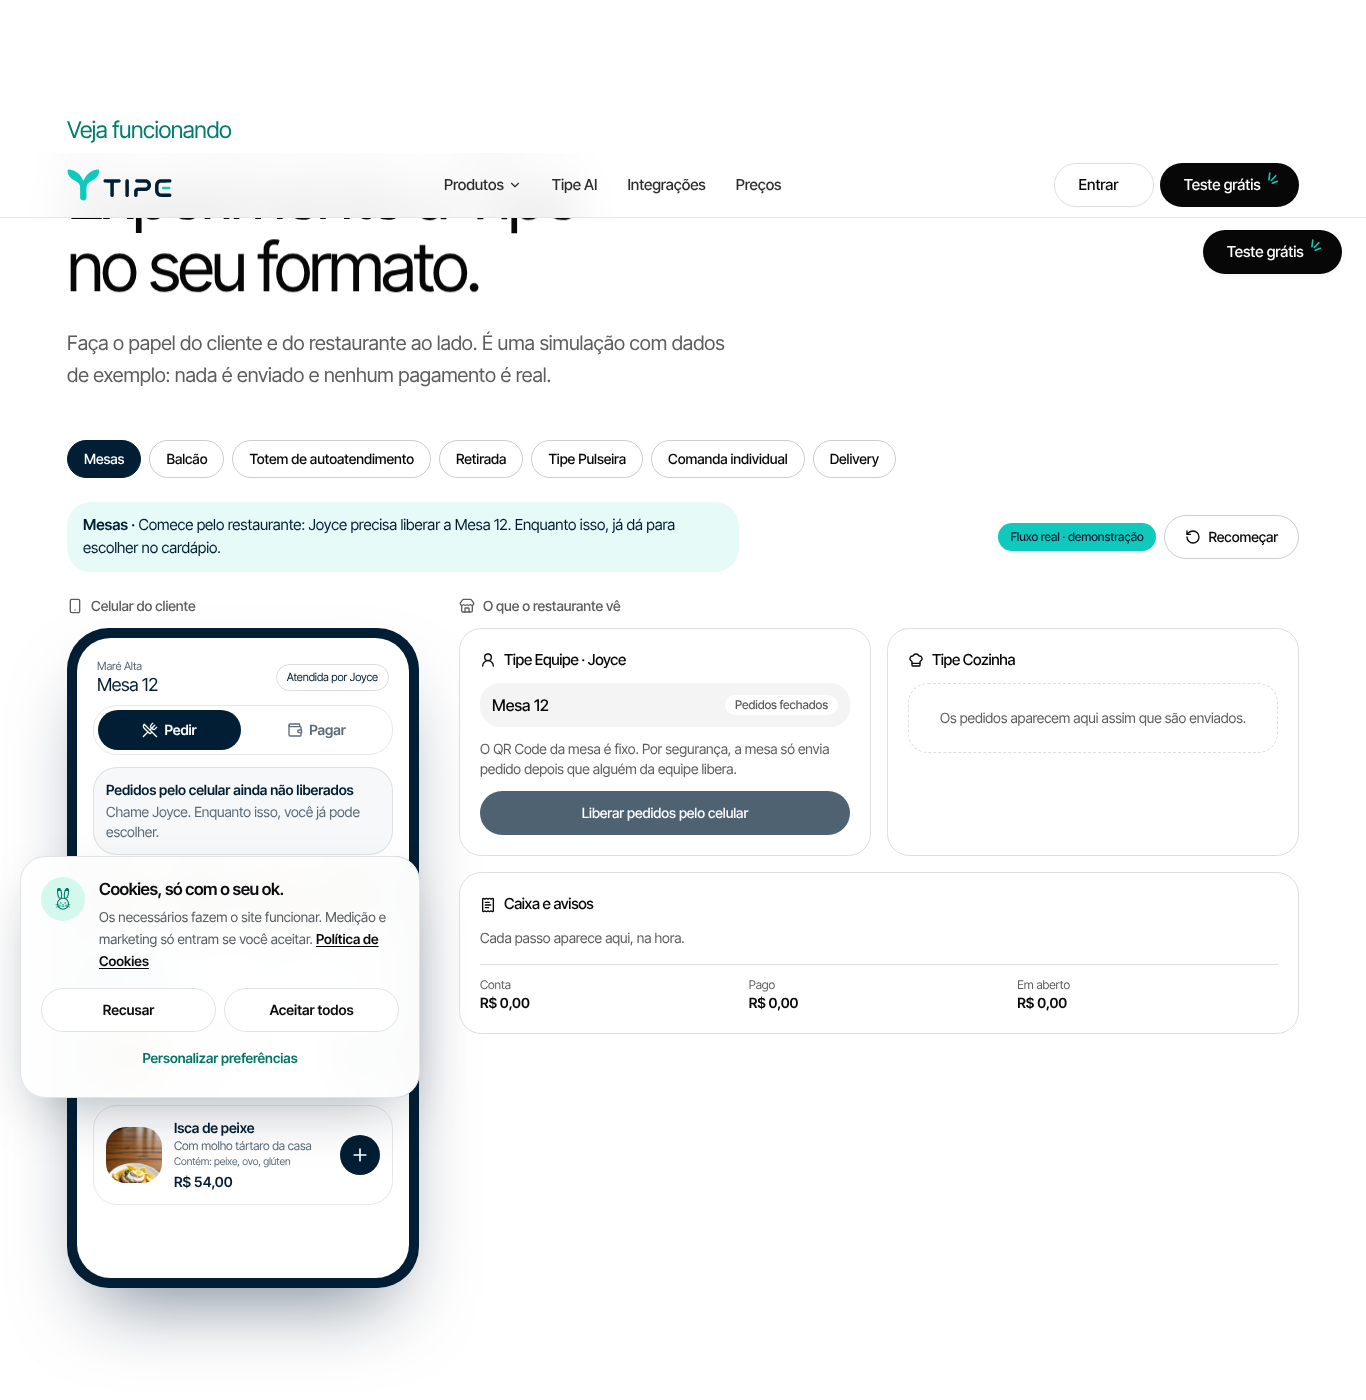
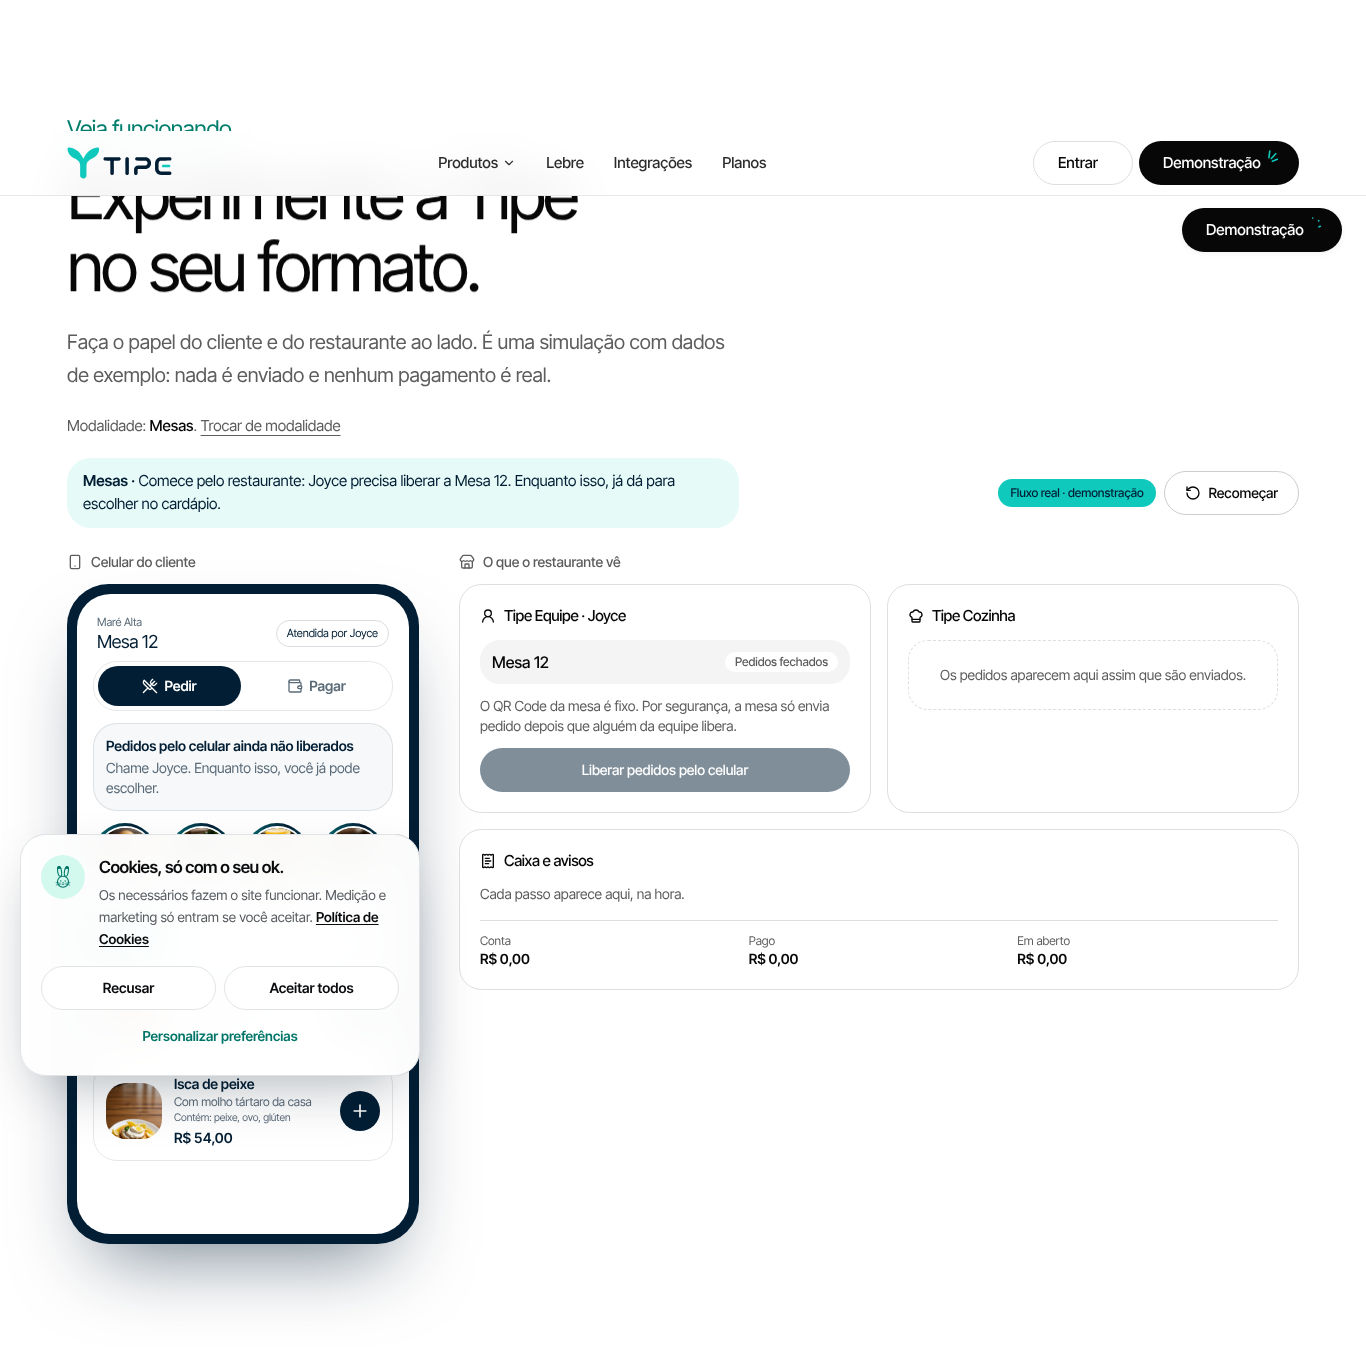
Order: seletor mais enxuto (3 benefícios, passo a passo recolhido) e simulador sem abas duplicadas
Claude-Session: https://claude.ai/code/session_014qa42xThX5JJ1RgbZyioSa

diff --git a/src/components/tipe/site/order/EscolhaAtendimento.tsx b/src/components/tipe/site/order/EscolhaAtendimento.tsx
@@ -9,6 +9,8 @@
 import { useId, useRef, type KeyboardEvent } from "react";
 import {
   ArrowRight,
+  Check,
+  ChevronDown,
   Bike,
   ClipboardList,
   Nfc,
@@ -251,41 +253,37 @@ export function EscolhaAtendimento({
               <span className="flex h-11 w-11 items-center justify-center rounded-2xl bg-[#e6faf8] text-[#03665f]">
                 <Icone className="h-5 w-5" aria-hidden />
               </span>
-              <h3 className="font-display text-[1.9rem] leading-none tracking-[-0.035em] sm:text-[2.3rem]">{def.nome}</h3>
+              <h3 className="font-display text-[1.7rem] leading-none tracking-[-0.035em] sm:text-[2rem]">{def.nome}</h3>
               <SeloDisponibilidade d={def.disponibilidade} className="text-[#021E34]" />
             </div>
             <p className="mt-4 text-[1.1rem] leading-relaxed text-muted-foreground sm:text-xl">{def.promessa}</p>
             <p className="mt-2 text-[0.9rem] leading-relaxed text-muted-foreground/90">{TEXTO_DISPONIBILIDADE[def.disponibilidade].longo}</p>
 
-            <h4 className="mt-7 font-display text-[1.05rem] tracking-[-0.02em] text-brand-strong">Como funciona</h4>
-            <ol className="mt-3 space-y-2">
-              {def.fluxo.map((p, i) => (
-                <li key={i} className="flex gap-3 text-[0.95rem] leading-snug">
-                  <span className="mt-0.5 flex h-5 w-5 shrink-0 items-center justify-center rounded-full bg-[#021E34] text-[0.65rem] font-semibold text-white tabular-nums">
-                    {i + 1}
-                  </span>
+            <ul className="mt-6 space-y-2.5">
+              {def.beneficios.slice(0, 3).map((b) => (
+                <li key={b.t} className="flex gap-3 text-[0.98rem] leading-snug">
+                  <Check className="mt-0.5 h-5 w-5 shrink-0 text-[#0FC9BD]" strokeWidth={2.5} aria-hidden />
                   <span>
-                    <span className="mr-1.5 rounded-md bg-[#e6faf8] px-1.5 py-0.5 text-[0.7rem] font-medium uppercase tracking-wide text-[#03665f]">
-                      {QUEM[p.quem]}
-                    </span>
-                    {p.o_que}
+                    <span className="font-medium">{b.t}.</span> <span className="text-muted-foreground">{b.d}</span>
                   </span>
-                </li>
-              ))}
-            </ol>
-
-            <ul className="mt-7 grid gap-3 sm:grid-cols-2">
-              {def.beneficios.map((b) => (
-                <li key={b.t} className="rounded-2xl bg-background-muted p-4 ring-1 ring-border">
-                  <p className="font-medium leading-snug">{b.t}</p>
-                  <p className="mt-1 text-[0.88rem] leading-relaxed text-muted-foreground">{b.d}</p>
                 </li>
               ))}
             </ul>
 
-            <p className="mt-6 text-[0.88rem] text-muted-foreground">
-              <span className="font-medium text-foreground">Indicada para:</span> {def.indicada.join(" · ")}
-            </p>
+            <details className="group mt-5 rounded-2xl border border-border px-4">
+              <summary className="flex min-h-12 cursor-pointer list-none items-center justify-between text-[0.95rem] font-medium [&::-webkit-details-marker]:hidden">
+                Ver o passo a passo
+                <ChevronDown className="h-4 w-4 transition-transform group-open:rotate-180" aria-hidden />
+              </summary>
+              <ol className="space-y-2 pb-4">
+                {def.fluxo.map((p, i) => (
+                  <li key={i} className="flex gap-3 text-[0.92rem] leading-snug">
+                    <span className="mt-0.5 flex h-5 w-5 shrink-0 items-center justify-center rounded-full bg-[#021E34] text-[0.65rem] font-semibold text-white tabular-nums">{i + 1}</span>
+                    <span><span className="text-muted-foreground">{QUEM[p.quem]}:</span> {p.o_que}</span>
+                  </li>
+                ))}
+              </ol>
+            </details>
 
             <div className="mt-7 flex flex-wrap gap-3">
               <a

diff --git a/src/components/tipe/site/order/SimuladorMultiformato.tsx b/src/components/tipe/site/order/SimuladorMultiformato.tsx
@@ -200,24 +200,10 @@ export function SimuladorMultiformato({
           texto="Faça o papel do cliente e do restaurante ao lado. É uma simulação com dados de exemplo: nada é enviado e nenhum pagamento é real."
         />
 
-        {/* Seletor da modalidade dentro do simulador: mesmo estado do seletor da página. */}
-        <div role="tablist" aria-label="Modalidade do simulador" className="-mx-4 mt-8 flex gap-2 overflow-x-auto px-4 pb-1 lg:mt-12">
-          {ORDEM_SELETOR.map((m) => (
-            <button
-              key={m}
-              type="button"
-              role="tab"
-              aria-selected={estado.modalidade === m}
-              onClick={() => onModalidade(m)}
-              className={cn(
-                "shrink-0 rounded-full border px-4 py-2 text-sm font-medium transition-colors",
-                estado.modalidade === m ? "border-[#021E34] bg-[#021E34] text-white" : "border-foreground/20 hover:bg-background-muted",
-              )}
-            >
-              {DEFINICOES[m].nome}
-            </button>
-          ))}
-        </div>
+        <p className="mt-6 text-[0.95rem] text-muted-foreground">
+          Modalidade: <span className="font-medium text-foreground">{DEFINICOES[estado.modalidade].nome}</span>.{" "}
+          <a href="#atendimento" className="underline underline-offset-4 hover:text-foreground">Trocar de modalidade</a>
+        </p>
 
         <div className="mt-5 flex flex-wrap items-center justify-between gap-3">
           <p aria-live="polite" className="max-w-2xl rounded-2xl bg-[#e6faf8] px-4 py-3 text-[0.95rem] text-[#021E34]">
